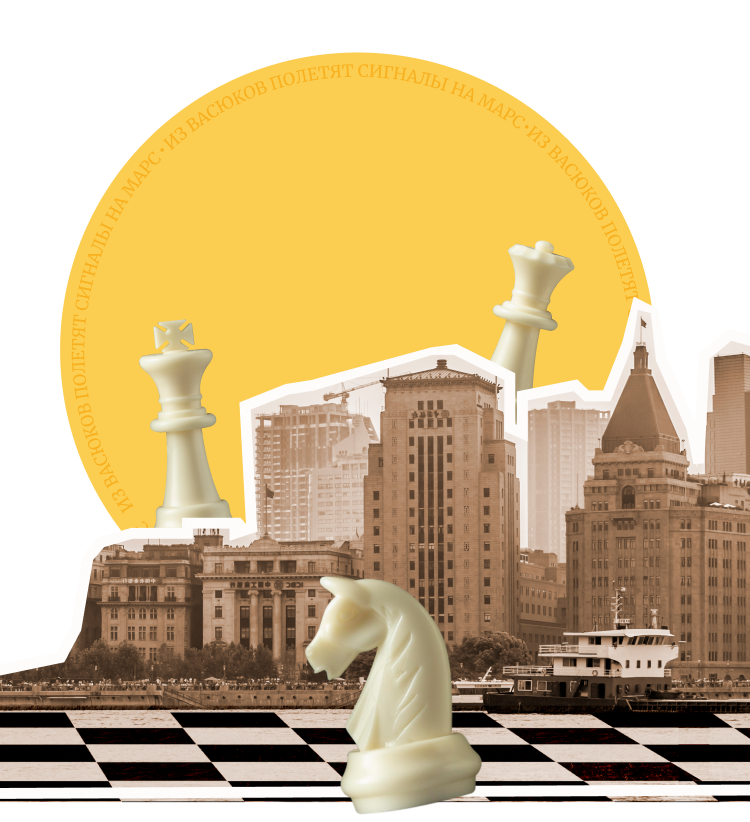
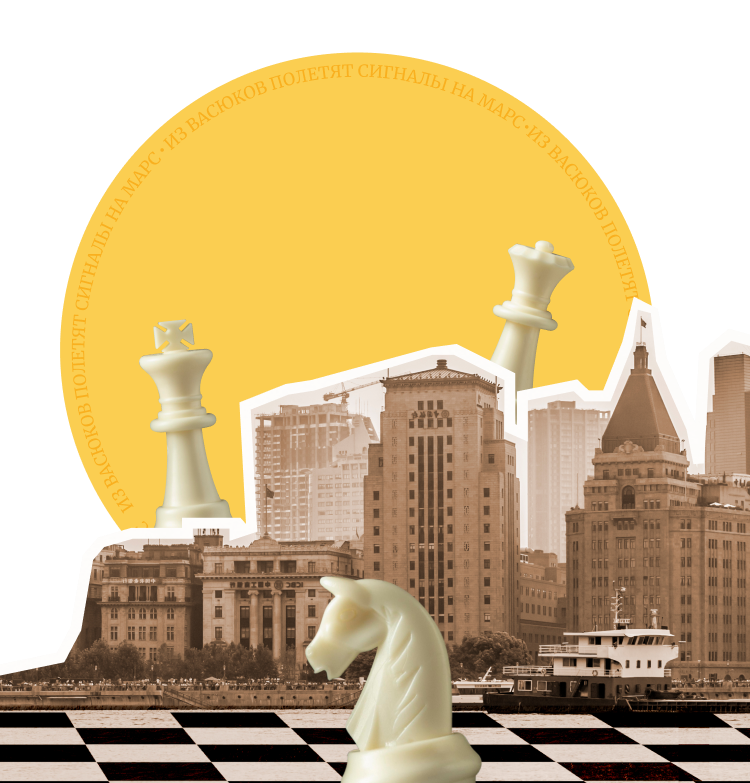
Adapted the main section for desktop

diff --git a/css/styles.css b/css/styles.css
@@ -3,6 +3,7 @@
   --ff-merriweather: "Merriweather", sans-serif;
   --mobile-layout-padding-h: 20px;
   --mobile-layout-padding-h-double: calc(var(--mobile-layout-padding-h) * 2);
+  --layout-padding-h: 72px;
 
   --color-text-primal: #313131;
   --color-black: #1f1f1f;
@@ -69,7 +70,7 @@ h2 {
 }
 
 .with-rough-back {
-  background-image: url(../assets/images/mobile_hero_back.png);
+  background-image: url(../assets/images/rough-back.png);
 }
 
 .with-cooper-back {
@@ -77,10 +78,6 @@ h2 {
 }
 
 .running-line-container {
-  position: absolute;
-  left: 0;
-  right: 0;
-  bottom: 0px;
   padding: 10px 0;
   background-color: var(--color-highlight);
 }
@@ -184,7 +181,7 @@ h2 {
   inset: 0;
   width: 100%;
   height: 100%;
-  background-image: url("/assets/images/mobile_hero_back.png");
+  background-image: url("/assets/images/rough-back.png");
   background-color: #e9ded4;
   background-blend-mode: color-burn;
   background-size: cover;
@@ -444,4 +441,97 @@ h2 {
   color: var(--color-text-primal);
   opacity: 0.6;
   text-align: start;
+}
+
+@media (min-width: 750px) {
+  h2 {
+    font-size: 60px;
+    font-weight: 400;
+    font-family: var(--ff-merriweather);
+    line-height: 110%;
+    color: var(--color-text-primal);
+    text-transform: uppercase;
+    text-align: start;
+  }
+
+  .running-line-container {
+    padding: 18px 0;
+  }
+
+  .running-line-text {
+    font-size: 22px;
+    padding: 0 30px;
+  }
+
+  .header__icon {
+    width: 22px;
+    height: 31px;
+  }
+
+  .hero__background {
+    display: none;
+  }
+
+  .hero__background_l {
+    background-image: url(../assets/images/hero_back.png);
+    background-size: cover;
+    background-position: bottom right;
+  }
+
+  .header__text {
+    font-family: var(--ff-golos-text);
+    font-weight: bold;
+    font-size: 17px;
+    line-height: 110%;
+    color: #595653;
+    text-transform: uppercase;
+
+    margin-left: 6px;
+  }
+
+  .hero {
+    height: 100vh;
+    position: relative;
+    max-height: 700px;
+    padding: 0 var(--layout-padding-h);
+  }
+
+  .hero__container {
+    max-width: 542px;
+  }
+
+  .hero__title {
+    padding: 124px 0 0;
+    margin: 0 0 24px;
+    max-width: none;
+  }
+  .hero__title__second {
+    text-align: center;
+  }
+  .hero__title__third {
+    text-align: end;
+  }
+
+  .hero__text {
+    text-align: center;
+  }
+
+  .hero__buttons {
+    margin: 40px 0 0;
+    flex-direction: row;
+    column-gap: 16px;
+    max-width: none;
+  }
+  .hero__button {
+    flex: 1;
+    padding: 20px 50px;
+    color: var(--color-white);
+    text-wrap: balance;
+  }
+
+  .hero__button.variant-1 {
+    background-color: transparent;
+    border: 2px solid var(--color-black);
+    color: var(--color-black);
+  }
 }

diff --git a/index.html b/index.html
@@ -33,31 +33,37 @@
     </header>
     <main>
       <section class="hero">
-        <h2 class="hero__title">
-          Превратите <br />уездный город <br />
-          <p class="hero__title__second">в столицу</p>
-          <p class="hero__title__third">земного шара</p>
-        </h2>
-        <p class="hero__text">
-          Оплатите взнос на телеграммы для организации Международного
-          васюкинского турнира по шахматам
-        </p>
-        <div class="hero__buttons">
-          <a href="#invitation" class="hero__button">Поддержать шахматную мысль</button>
-          <a href="#party" class="hero__button variant-1">Подробнее о турнире</button>
+        <div class="hero__container">
+          <h2 class="hero__title">
+            Превратите <br />уездный город <br />
+            <p class="hero__title__second">в столицу</p>
+            <p class="hero__title__third">земного шара</p>
+          </h2>
+          <p class="hero__text">
+            Оплатите взнос на телеграммы для организации Международного
+            васюкинского турнира по шахматам
+          </p>
+          <div class="hero__buttons">
+            <a href="#invitation" class="hero__button"
+              >Поддержать шахматную мысль</a
+            >
+            <a href="#party" class="hero__button variant-1"
+              >Подробнее о турнире</a
+            >
+          </div>
         </div>
-        <img class="hero__background" />
-        <img class="hero__background_l" />
-        <div
-          class="running-line-container running-line-text"
-          id="runningLine"
-          data-delay="1000"
-        >
-          Дело помощи утопающим — дело рук самих утопающих! • Шахматы двигают
-          вперед не только культуру, но и экономику! • Лед тронулся, господа
-          присяжные заседатели!
-        </div>
+        <div class="hero__background"></div>
+        <div class="hero__background_l"></div>
       </section>
+      <div
+        class="running-line-container running-line-text"
+        id="runningLine"
+        data-delay="1000"
+      >
+        Дело помощи утопающим — дело рук самих утопающих! • Шахматы двигают
+        вперед не только культуру, но и экономику! • Лед тронулся, господа
+        присяжные заседатели!
+      </div>
       <section class="invitation" id="invitation">
         <div class="container">
           <h3 class="invitation__title">